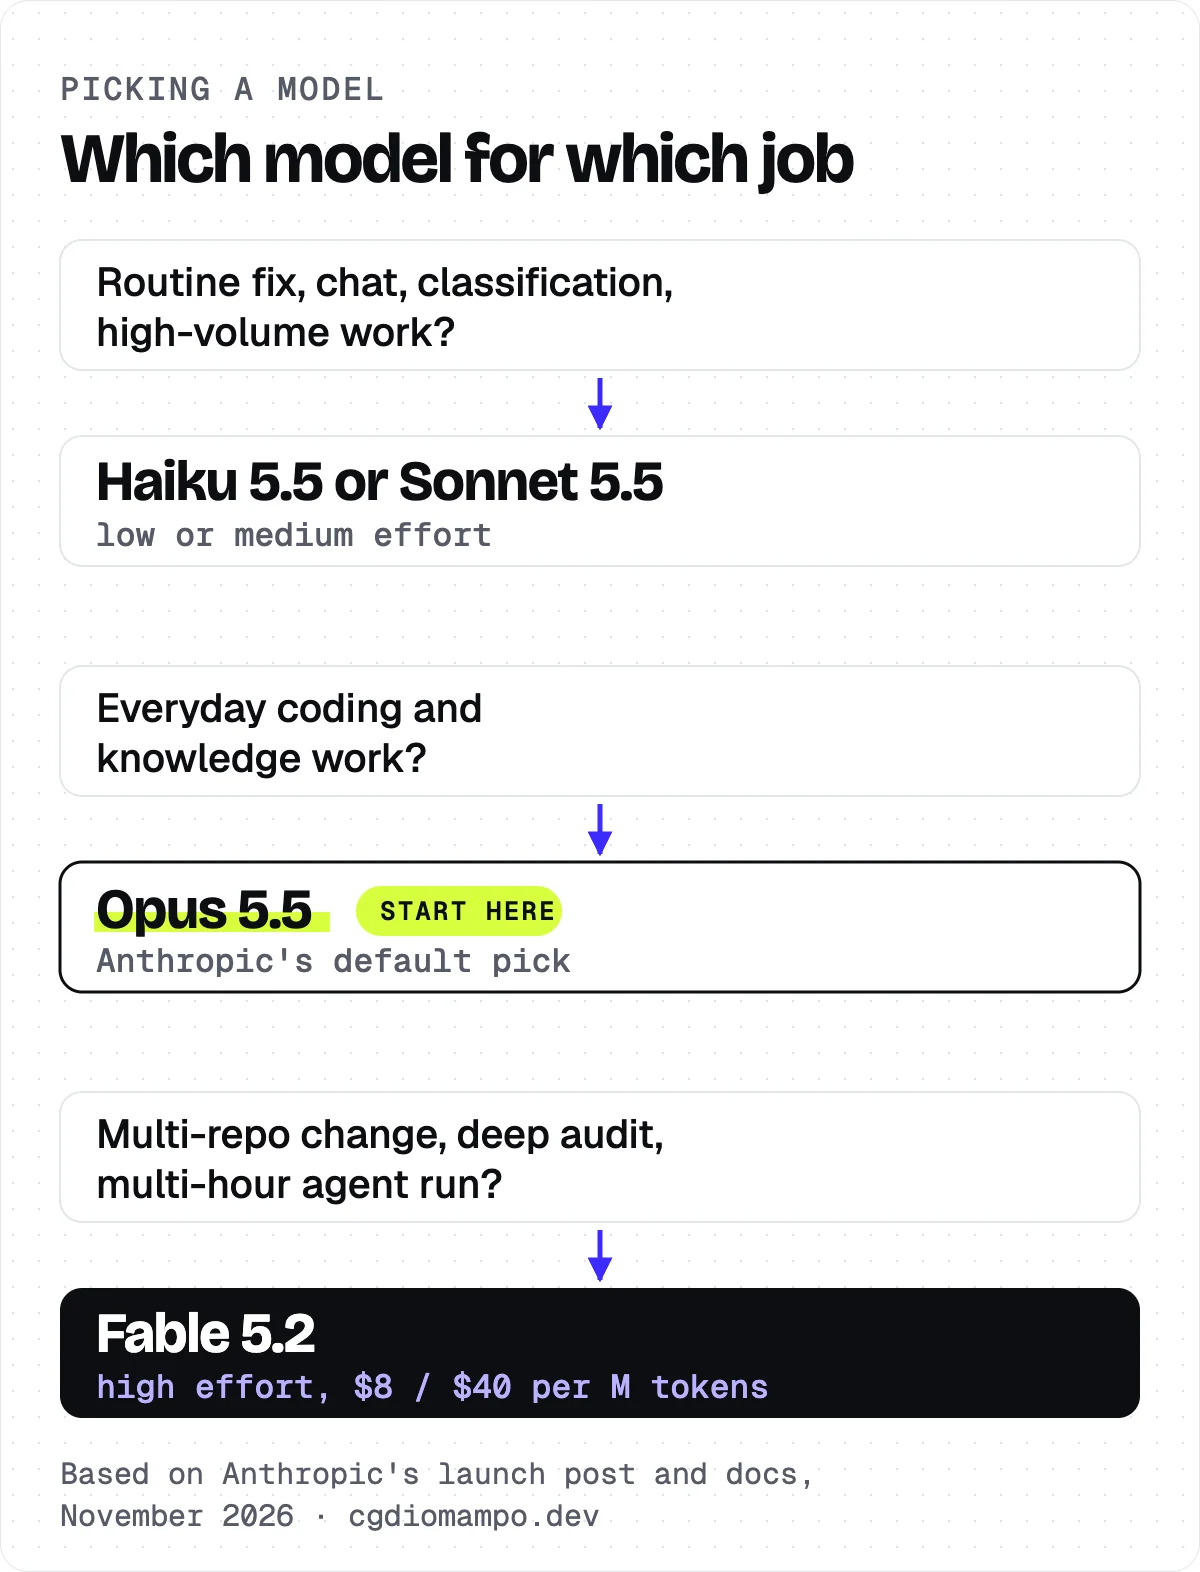
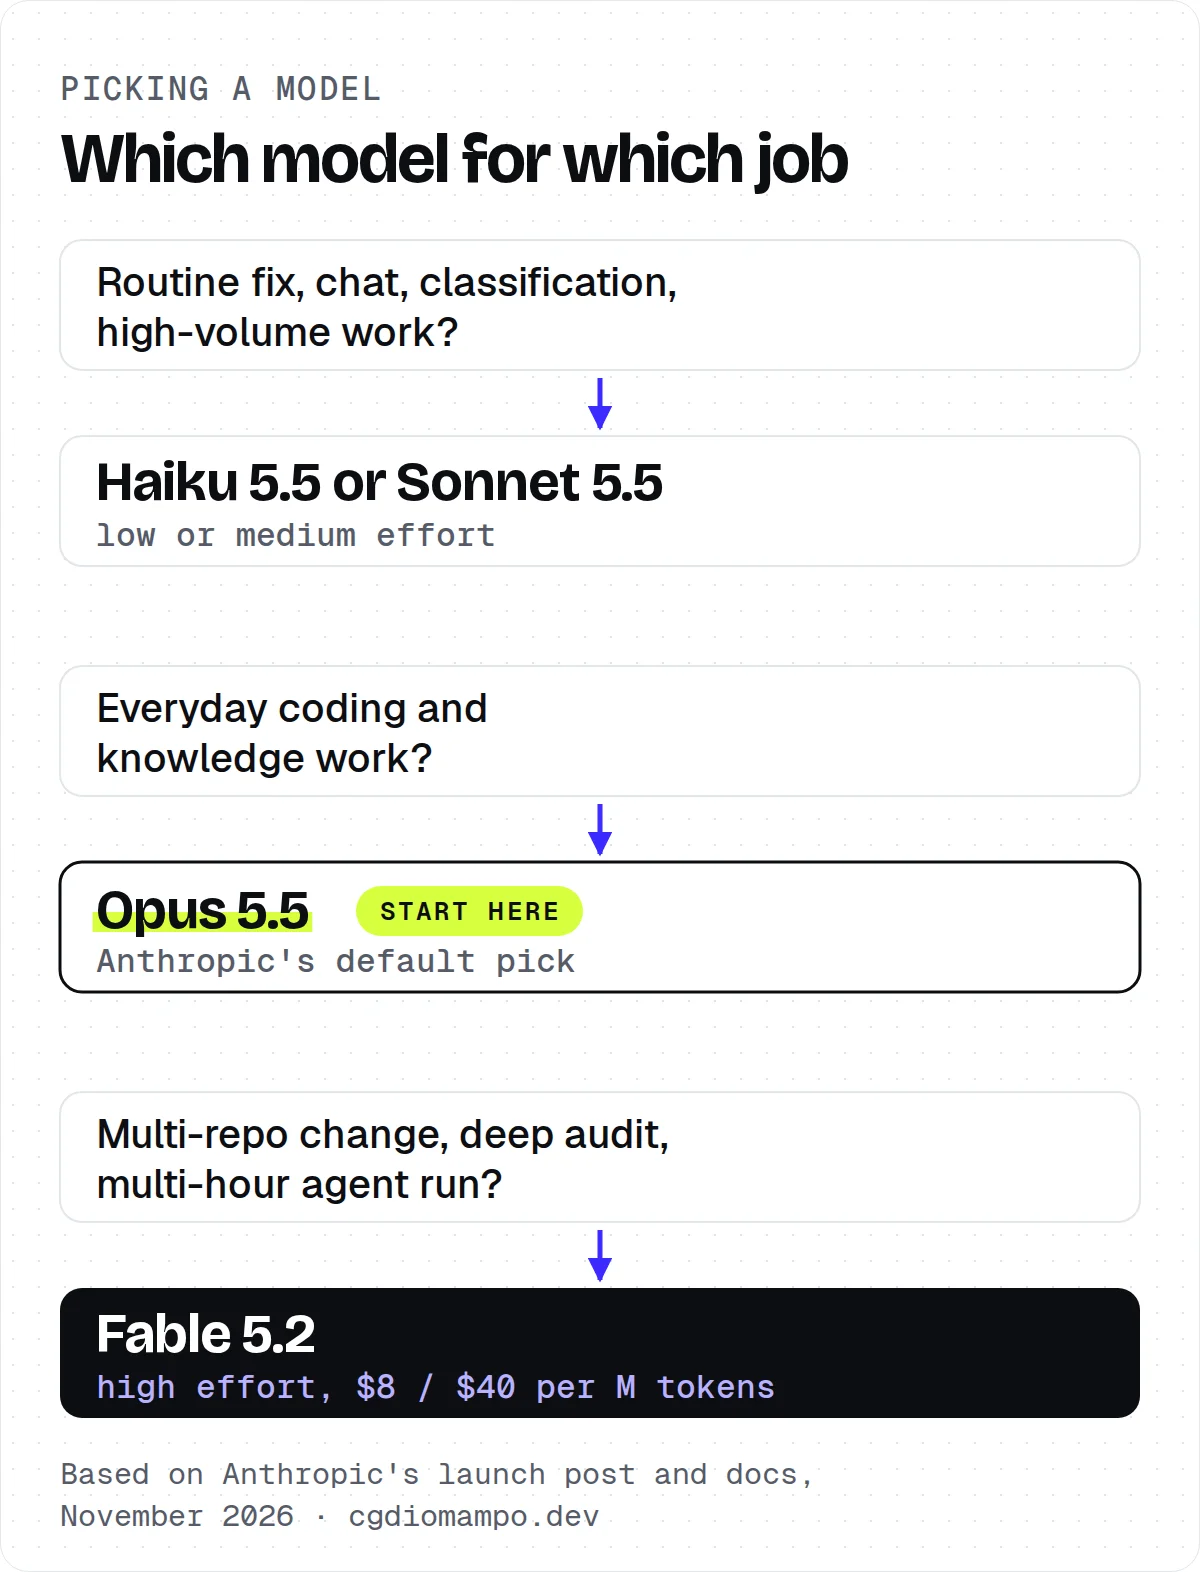
fix(blog): address CodeRabbit findings on the Fable 5.2 post and diagrams
The diagram sources listed fallbacks in their @font-face family descriptors, which is invalid, so the WebPs had rendered in system fonts. They are re-rendered in Bricolage and Geist. The post now states the ZDR exception from Anthropic's Fable page and only promises disconnect handling when the host passes it on.

diff --git a/docs/superpowers/working/2026-11-12-fable-5-2-post/images/src/model-picker.html b/docs/superpowers/working/2026-11-12-fable-5-2-post/images/src/model-picker.html
@@ -4,9 +4,9 @@
 <meta charset="utf-8">
 <title>Model picker</title>
 <style>
-  @font-face {font-family: 'Bricolage', sans-serif; src: url('../../../../../../src/app/_fonts/bricolage-grotesque-latin-variable.woff2') format('woff2'); font-weight: 200 800;}
-  @font-face {font-family: 'Geist', sans-serif; src: url('../../../../../../src/app/_fonts/geist-latin-variable.woff2') format('woff2'); font-weight: 100 900;}
-  @font-face {font-family: 'Geist Mono', monospace; src: url('../../../../../../src/app/_fonts/geist-mono-latin-variable.woff2') format('woff2'); font-weight: 100 900;}
+  @font-face {font-family: 'Bricolage'; src: url('../../../../../../src/app/_fonts/bricolage-grotesque-latin-variable.woff2') format('woff2'); font-weight: 200 800;}
+  @font-face {font-family: 'Geist'; src: url('../../../../../../src/app/_fonts/geist-latin-variable.woff2') format('woff2'); font-weight: 100 900;}
+  @font-face {font-family: 'Geist Mono'; src: url('../../../../../../src/app/_fonts/geist-mono-latin-variable.woff2') format('woff2'); font-weight: 100 900;}
   body {margin: 0; background: #fff;}
   .eyebrow {font: 500 32px 'Geist Mono', monospace; letter-spacing: .08em; fill: #565B67;}
   .h {font: 700 70px 'Bricolage', sans-serif; letter-spacing: -.03em; fill: #0D0E12;}
@@ -46,9 +46,9 @@
   <text x="96" y="726" class="q">knowledge work?</text>
   <line x1="600" y1="758" x2="600" y2="808" stroke="#3B2BFF" stroke-width="5" marker-end="url(#arrow)"/>
   <rect x="60" y="816" width="1080" height="130" rx="22" fill="#fff" stroke="#0D0E12" stroke-width="3"/>
-  <rect x="94" y="866" width="236" height="20" fill="#D7FF3D"/>
+  <rect x="92.6" y="866" width="219.7" height="20" fill="#D7FF3D"/>
   <text x="96" y="882" class="m" fill="#0D0E12">Opus 5.5</text>
-  <rect x="356" y="840" width="206" height="50" rx="25" fill="#D7FF3D"/>
+  <rect x="356" y="840" width="227" height="50" rx="25" fill="#D7FF3D"/>
   <text x="380" y="874" class="tag">START HERE</text>
   <text x="96" y="926" class="note">Anthropic's default pick</text>
 

diff --git a/docs/superpowers/working/2026-11-12-fable-5-2-post/images/src/orchestrator.html b/docs/superpowers/working/2026-11-12-fable-5-2-post/images/src/orchestrator.html
@@ -4,9 +4,9 @@
 <meta charset="utf-8">
 <title>Orchestrator</title>
 <style>
-  @font-face {font-family: 'Bricolage', sans-serif; src: url('../../../../../../src/app/_fonts/bricolage-grotesque-latin-variable.woff2') format('woff2'); font-weight: 200 800;}
-  @font-face {font-family: 'Geist', sans-serif; src: url('../../../../../../src/app/_fonts/geist-latin-variable.woff2') format('woff2'); font-weight: 100 900;}
-  @font-face {font-family: 'Geist Mono', monospace; src: url('../../../../../../src/app/_fonts/geist-mono-latin-variable.woff2') format('woff2'); font-weight: 100 900;}
+  @font-face {font-family: 'Bricolage'; src: url('../../../../../../src/app/_fonts/bricolage-grotesque-latin-variable.woff2') format('woff2'); font-weight: 200 800;}
+  @font-face {font-family: 'Geist'; src: url('../../../../../../src/app/_fonts/geist-latin-variable.woff2') format('woff2'); font-weight: 100 900;}
+  @font-face {font-family: 'Geist Mono'; src: url('../../../../../../src/app/_fonts/geist-mono-latin-variable.woff2') format('woff2'); font-weight: 100 900;}
   body {margin: 0; background: #fff;}
   .eyebrow {font: 500 32px 'Geist Mono', monospace; letter-spacing: .08em; fill: #565B67;}
   .h {font: 700 70px 'Bricolage', sans-serif; letter-spacing: -.03em; fill: #0D0E12;}

diff --git a/docs/superpowers/working/2026-11-12-fable-5-2-post/examples/app/api/chat/route.ts b/docs/superpowers/working/2026-11-12-fable-5-2-post/examples/app/api/chat/route.ts
@@ -26,6 +26,8 @@ export async function POST(request: Request): Promise<Response> {
     fallbacks: 'default',
     messages: [{role: 'user', content: prompt}],
   });
+  // The client went away: stop paying for tokens nobody will see
+  request.signal.addEventListener('abort', () => stream.abort());
 
   const body = new ReadableStream<Uint8Array>({
     async start(controller) {
@@ -51,7 +53,7 @@ export async function POST(request: Request): Promise<Response> {
       }
     },
     cancel() {
-      // The reader went away: stop paying for tokens nobody will see
+      // Some runtimes cancel the response stream instead of aborting request.signal
       stream.abort();
     },
   });

diff --git a/prisma/seed-data/posts/claude-fable-5-2-developer-guide.md b/prisma/seed-data/posts/claude-fable-5-2-developer-guide.md
@@ -40,7 +40,7 @@ Coming from Fable 5.1, moving to 5.2 is mostly a model ID swap. Coming from Opus
 5. **History has to stay append-only.** The preserved thinking check now applies to every account. If you send a thinking block back after editing the system prompt, the tools or an earlier message, you get a 400. Keep `system` and `tools` fixed for a session and only add to `messages` ([preserved thinking](https://platform.claude.com/docs/en/build-with-claude/preserved-thinking)). No older model can read Fable 5.2's thinking blocks either, so a fallback to Opus carries on without that reasoning.
 6. **Computer use moved.** `computer_20251124` returns a 400 everywhere except Amazon Bedrock. Use `computer_toolset_20260801` ([computer use tool](https://platform.claude.com/docs/en/agents-and-tools/tool-use/computer-use-tool)).
 7. **Advisor pairing.** With the advisor tool, a Fable 5.2 executor only accepts Fable 5.2 or Mythos 5.2 as its advisor.
-8. **Data retention.** Fable 5.2 needs 30-day data retention, so an organisation on zero data retention can't use it without Anthropic's Enterprise Frontier Safeguards.
+8. **Data retention.** By default, Fable 5.2 needs 30-day data retention for safety monitoring. Anthropic's Enterprise Frontier Safeguards make it work with zero data retention, and until those are available, eligible customers can keep using it with zero data retention ([Fable 5.2 page](https://www.anthropic.com/claude/fable)).
 
 Two prompting changes from Anthropic's [prompting guide for Fable 5.2](https://platform.claude.com/docs/en/build-with-claude/prompt-engineering/prompting-claude-fable-5-2) are worth knowing before you test it. A line in the prompt telling it to answer without deliberating no longer stops it thinking at medium effort and above, so lower the effort instead. And on long tasks at low or medium effort it sometimes stops early with a list of what's left, so an agent needs a clear instruction to finish the whole task.
 
@@ -89,7 +89,7 @@ These are the patterns I'd reach for in a Next.js App Router project with the of
 
 ### Stream a response from a route handler
 
-Fable 5.2 turns can run for minutes and produce up to 128K tokens, so stream anything that isn't tiny. This route handler at `app/api/chat/route.ts` sets the effort explicitly and turns on server-side fallbacks. It streams newline-delimited JSON instead of plain text, so the client can always tell the model's words from status events. `text` events carry the answer. If Fable declines partway through, a `switch` event marks the switch, and the fallback model carries on from the partial text. A final `end` event carries the stop reason, and only `end_turn` means a finished answer. On `refusal` the whole chain declined, and the client should discard the partial text. On `max_tokens` or `model_context_window_exceeded` the answer was cut off. The route also stops the request when the reader closes the tab, so you don't pay for tokens nobody sees.
+Fable 5.2 turns can run for minutes and produce up to 128K tokens, so stream anything that isn't tiny. This route handler at `app/api/chat/route.ts` sets the effort explicitly and turns on server-side fallbacks. It streams newline-delimited JSON instead of plain text, so the client can always tell the model's words from status events. `text` events carry the answer. If Fable declines partway through, a `switch` event marks the switch, and the fallback model carries on from the partial text. A final `end` event carries the stop reason, and only `end_turn` means a finished answer. On `refusal` the whole chain declined, and the client should discard the partial text. On `max_tokens` or `model_context_window_exceeded` the answer was cut off. If the reader closes the tab, the route stops the request through `request.signal` or the stream's `cancel()`, so you don't pay for tokens nobody sees. That only works if your host passes the disconnect on to the route, so check that yours does.
 
 A route handler is a public endpoint, and at Fable prices that matters. Cap the input as this one does, and put auth and rate limiting in front of it before it goes live. The same goes for the server action below.
 
@@ -122,6 +122,8 @@ export async function POST(request: Request): Promise<Response> {
     fallbacks: 'default',
     messages: [{role: 'user', content: prompt}],
   });
+  // The client went away: stop paying for tokens nobody will see
+  request.signal.addEventListener('abort', () => stream.abort());
 
   const body = new ReadableStream<Uint8Array>({
     async start(controller) {
@@ -147,7 +149,7 @@ export async function POST(request: Request): Promise<Response> {
       }
     },
     cancel() {
-      // The reader went away: stop paying for tokens nobody will see
+      // Some runtimes cancel the response stream instead of aborting request.signal
       stream.abort();
     },
   });

diff --git a/docs/superpowers/working/2026-11-12-fable-5-2-post/post-template.md b/docs/superpowers/working/2026-11-12-fable-5-2-post/post-template.md
@@ -40,7 +40,7 @@ Coming from Fable 5.1, moving to 5.2 is mostly a model ID swap. Coming from Opus
 5. **History has to stay append-only.** The preserved thinking check now applies to every account. If you send a thinking block back after editing the system prompt, the tools or an earlier message, you get a 400. Keep `system` and `tools` fixed for a session and only add to `messages` ([preserved thinking](https://platform.claude.com/docs/en/build-with-claude/preserved-thinking)). No older model can read Fable 5.2's thinking blocks either, so a fallback to Opus carries on without that reasoning.
 6. **Computer use moved.** `computer_20251124` returns a 400 everywhere except Amazon Bedrock. Use `computer_toolset_20260801` ([computer use tool](https://platform.claude.com/docs/en/agents-and-tools/tool-use/computer-use-tool)).
 7. **Advisor pairing.** With the advisor tool, a Fable 5.2 executor only accepts Fable 5.2 or Mythos 5.2 as its advisor.
-8. **Data retention.** Fable 5.2 needs 30-day data retention, so an organisation on zero data retention can't use it without Anthropic's Enterprise Frontier Safeguards.
+8. **Data retention.** By default, Fable 5.2 needs 30-day data retention for safety monitoring. Anthropic's Enterprise Frontier Safeguards make it work with zero data retention, and until those are available, eligible customers can keep using it with zero data retention ([Fable 5.2 page](https://www.anthropic.com/claude/fable)).
 
 Two prompting changes from Anthropic's [prompting guide for Fable 5.2](https://platform.claude.com/docs/en/build-with-claude/prompt-engineering/prompting-claude-fable-5-2) are worth knowing before you test it. A line in the prompt telling it to answer without deliberating no longer stops it thinking at medium effort and above, so lower the effort instead. And on long tasks at low or medium effort it sometimes stops early with a list of what's left, so an agent needs a clear instruction to finish the whole task.
 
@@ -89,7 +89,7 @@ These are the patterns I'd reach for in a Next.js App Router project with the of
 
 ### Stream a response from a route handler
 
-Fable 5.2 turns can run for minutes and produce up to 128K tokens, so stream anything that isn't tiny. This route handler at `app/api/chat/route.ts` sets the effort explicitly and turns on server-side fallbacks. It streams newline-delimited JSON instead of plain text, so the client can always tell the model's words from status events. `text` events carry the answer. If Fable declines partway through, a `switch` event marks the switch, and the fallback model carries on from the partial text. A final `end` event carries the stop reason, and only `end_turn` means a finished answer. On `refusal` the whole chain declined, and the client should discard the partial text. On `max_tokens` or `model_context_window_exceeded` the answer was cut off. The route also stops the request when the reader closes the tab, so you don't pay for tokens nobody sees.
+Fable 5.2 turns can run for minutes and produce up to 128K tokens, so stream anything that isn't tiny. This route handler at `app/api/chat/route.ts` sets the effort explicitly and turns on server-side fallbacks. It streams newline-delimited JSON instead of plain text, so the client can always tell the model's words from status events. `text` events carry the answer. If Fable declines partway through, a `switch` event marks the switch, and the fallback model carries on from the partial text. A final `end` event carries the stop reason, and only `end_turn` means a finished answer. On `refusal` the whole chain declined, and the client should discard the partial text. On `max_tokens` or `model_context_window_exceeded` the answer was cut off. If the reader closes the tab, the route stops the request through `request.signal` or the stream's `cancel()`, so you don't pay for tokens nobody sees. That only works if your host passes the disconnect on to the route, so check that yours does.
 
 A route handler is a public endpoint, and at Fable prices that matters. Cap the input as this one does, and put auth and rate limiting in front of it before it goes live. The same goes for the server action below.
 

diff --git a/docs/superpowers/working/2026-11-12-fable-5-2-post/research-notes.md b/docs/superpowers/working/2026-11-12-fable-5-2-post/research-notes.md
@@ -56,7 +56,7 @@
 - Earlier models cannot read its thinking blocks; a fallback runs without that reasoning https://platform.claude.com/docs/en/build-with-claude/preserved-thinking
 - `computer_20251124` returns a 400 except on Amazon Bedrock; use `computer_toolset_20260801` https://platform.claude.com/docs/en/agents-and-tools/tool-use/computer-use-tool
 - Advisor tool: a Fable 5.2 executor accepts only claude-fable-5-2 or claude-mythos-5-2 as advisor https://platform.claude.com/docs/en/models/fable-5-2/whats-new-fable-5-2
-- 30-day data retention required; not available under ZDR without Enterprise Frontier Safeguards https://www.anthropic.com/claude/fable
+- 30-day data retention required by default, for safety monitoring. EFS makes it compatible with ZDR; "Until EFS is available, eligible customers can continue using Claude Fable 5.2 with ZDR before implementing safety monitoring with EFS." https://www.anthropic.com/claude/fable
 - Long turns; stream above about 16K max_tokens; set a large max_tokens at high and above https://platform.claude.com/docs/en/build-with-claude/prompt-engineering/prompting-claude-fable-5-2
 - Fable 5.2 has its own rate limit https://platform.claude.com/docs/en/models/fable-5-2/whats-new-fable-5-2
 - Early testers had good results using it as planner and orchestrator for other models; subagents can be a large share of cost https://platform.claude.com/docs/en/build-with-claude/prompt-engineering/prompting-claude-fable-5-2

diff --git a/docs/superpowers/working/2026-11-12-fable-5-2-post/ledger.md b/docs/superpowers/working/2026-11-12-fable-5-2-post/ledger.md
@@ -35,3 +35,6 @@ Final: minor (deferred): M7 invalid JSON body returns 500 instead of 400
 Diagrams: Ruling: redrawn as 1200px portrait (model picker 1200x1572, orchestrator 1200x1300) per Christian; smallest label 8.7px at 390px, main labels 11-17px; on desktop they now take about 945px and 781px of height — cost if wrong: tall images on desktop
 Final: fixed deferred minors M2, M4, M5, M6, M7 at Christian's request — tsc ok, checker OK 2596 words, suite 428/428
 PR161: fixed bot findings 1-6, 8 (verify-pr.sh RED->GREEN, checker OK 2724 words, suite 428/428)
+PR161: fixed Codex finding 9 (cached example throws unless end_turn) in 64113b7
+PR161 CodeRabbit 64113b7: fixed 10 request.signal abort + hedged disconnect copy, 11 ZDR exception from anthropic.com/claude/fable, 12 @font-face descriptors (diagrams had rendered in system fonts; re-rendered at 1200px DSF 1 via Playwright over http, cwebp -q 85), script path quoting; skipped the Vercel maxDuration suggestion (post is host-agnostic, limits unsourced) (verify-pr.sh GREEN, checker OK 2767 words, suite 428/428)
+Diagrams: Ruling: with the real fonts, Opus 5.5 highlighter resized to 0.06em past the measured text (x 92.6, w 219.7) and START HERE pill to 24px padding (w 227) — cost if wrong: small misalignment
